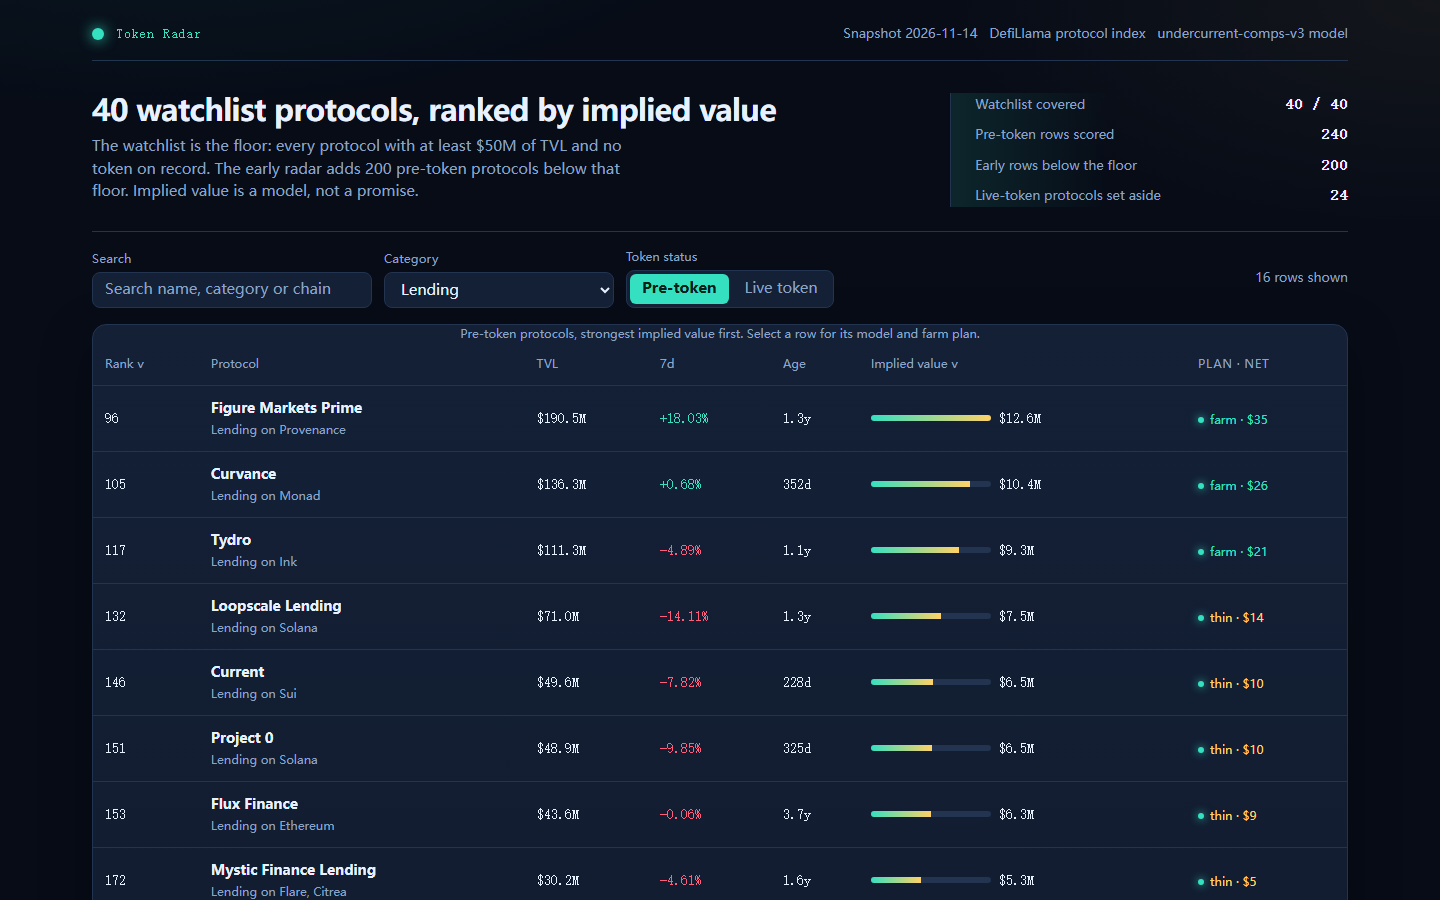
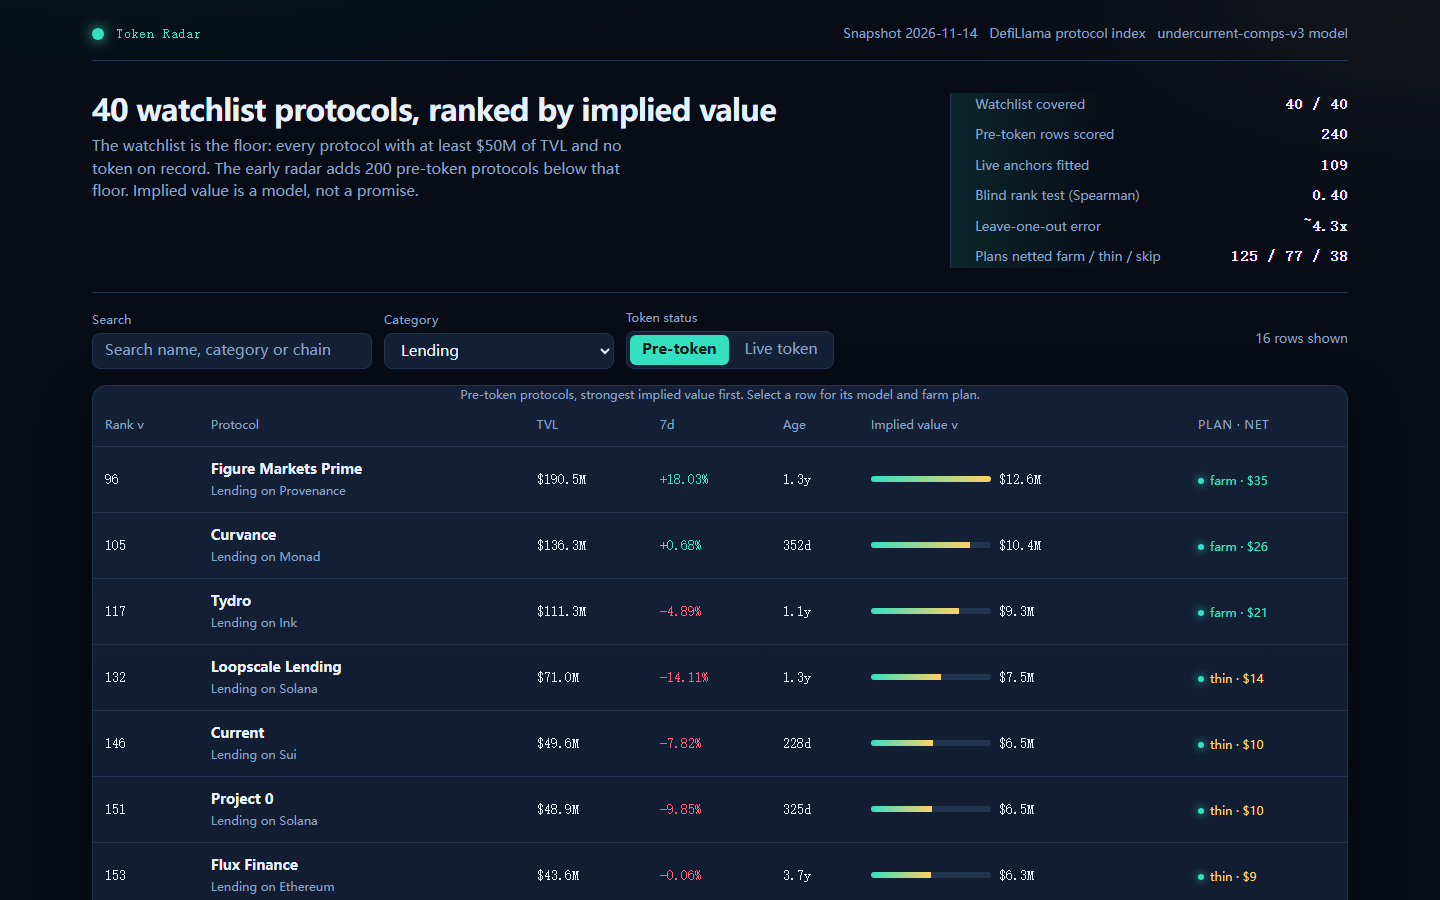
surface the self-check in the first screen and map criteria in source

diff --git a/dashboard/app.js b/dashboard/app.js
@@ -179,8 +179,10 @@
       node('div', { class: 'facts' },
         node('div', { class: 'fact' }, node('span', { text: 'Watchlist covered' }), node('b', { text: radar.watchlist_size + ' / ' + radar.watchlist_size })),
         node('div', { class: 'fact' }, node('span', { text: 'Pre-token rows scored' }), node('b', { text: String(radar.board_size) })),
-        node('div', { class: 'fact' }, node('span', { text: 'Early rows below the floor' }), node('b', { text: String(radar.early_size) })),
-        node('div', { class: 'fact' }, node('span', { text: 'Live-token protocols set aside' }), node('b', { text: String(radar.live_size) }))
+        node('div', { class: 'fact' }, node('span', { text: 'Live anchors fitted' }), node('b', { text: String(radar.validation ? radar.validation.comparables : '—') })),
+        node('div', { class: 'fact' }, node('span', { text: 'Blind rank test (Spearman)' }), node('b', { text: radar.validation ? Number(radar.validation.blind_spearman).toFixed(2) : '—' })),
+        node('div', { class: 'fact' }, node('span', { text: 'Leave-one-out error' }), node('b', { text: radar.validation ? '~' + Math.pow(10, radar.validation.loo_mae_log).toFixed(1) + 'x' : '—' })),
+        node('div', { class: 'fact' }, node('span', { text: 'Plans netted farm / thin / skip' }), node('b', { text: (function () { var f = 0, t = 0, s = 0; for (var i = 0; i < radar.rows.length; i++) { var v = radar.rows[i].verdict; if (v === 'farm') f++; else if (v === 'thin') t++; else s++; } return f + ' / ' + t + ' / ' + s; })() }))
       )
     );
   }

diff --git a/dashboard/model.js b/dashboard/model.js
@@ -3,6 +3,18 @@
 // the size curve, tilt each pre-token protocol by its category, then net the farm position to a
 // farm / thin / skip decision. The page calls these functions on the anchors in data.js and checks
 // its own numbers against the board, so the screenshot and the source cannot disagree.
+//
+// Where each judging criterion is met, for a reader checking the code:
+//   1. A working radar — board.json holds every watchlist slug plus pre-token rows below the floor;
+//      the page renders all of them (app.js render/boardTable) and refits this file to reproduce
+//      the values (see fitComps + the self-check in app.js modelPanel).
+//   2. The value model — implied value is fitted here from the live-token comparables (traded tokens
+//      as anchors), never a hardcoded name list; isPreToken/comparables separate traded from pre.
+//   3. Farm plans — netValue() prices each position and labels it farm / thin / skip with the net
+//      dollar figure and the stated 0.2%-pool / 500-farmer assumption.
+//   4. The dashboard as a page — app.js sorts, filters by category, searches, and opens a detail
+//      drawer per protocol; app.css is one palette.
+//   5. Looks made — a single dark palette, one type scale, consistent spacing (app.css tokens).
 (function (root) {
   'use strict';
 
